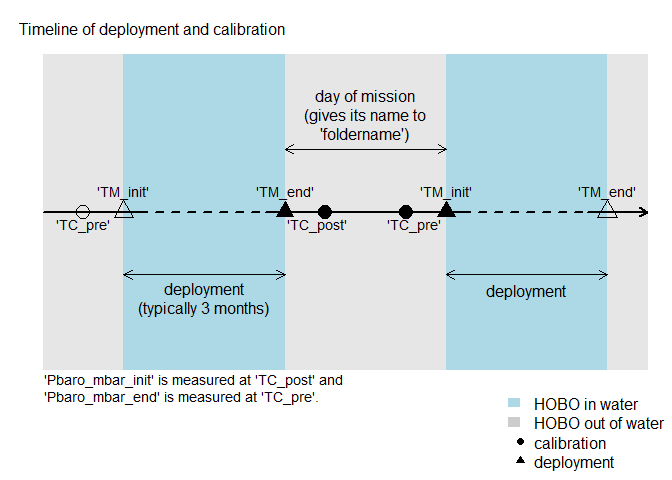
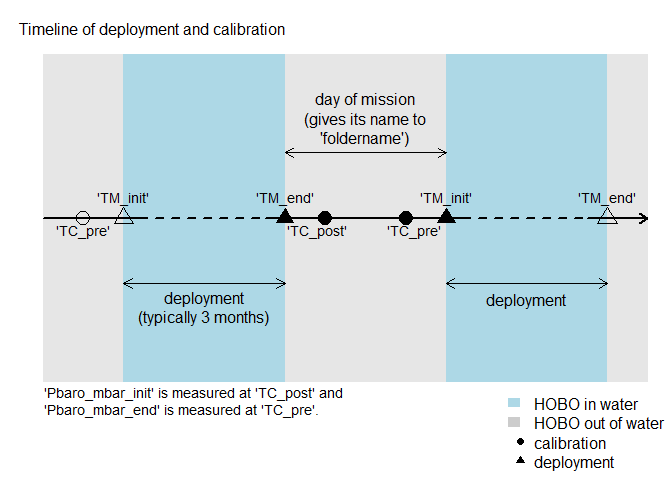
edit text above timeline

diff --git a/README.md b/README.md
@@ -62,16 +62,27 @@ sensors deployment:
 # Start editing here
 foldername = "2021_07_27" # Name of the folder with data unloaded. Typically, folder named YYYY_MM_DD using the date of the field mission.
 Append = format(as.Date(foldername, format = "%Y_%m_%d"), format = "%Y%m") # To respect the format, create the append that will be added to each QAQC'd file
-TC_pre = "2021/05/07 13:10:00" # Time calibration pre-deployment, after the calibration bucket # before measurements
-TM_init = "2021/05/07 13:40:00" # Time measurement init # when probes are back in the lakes
 TM_end = "2021/07/27 07:50:00" # Time measurement end # when probes are taken out of the lakes
 TC_post = "2021/07/27 09:15:00" # Time calibration end of measurements (post deployment)
+TC_pre = "2021/05/07 13:10:00" # Time calibration pre-deployment, after the calibration bucket # before measurements
+TM_init = "2021/05/07 13:40:00" # Time measurement init # when probes are back in the lakes
 Pbaro_mbar_init = 756.2 *1013/760 # P in millibar
 Pbaro_mbar_end = 752.6 *1013/760 # P in millibar
 # Stop editing here
 ```
 
-The timeline showing the succession of event is shown below.
+The timeline below shows the succession of events: every 3 months or so,
+the HOBO sensors are taken out of the water (TM\_end: time end
+measurement), put in an oxygenated bucket for one hour (TC\_post: time
+at the end of the hour, with theoretical measurements at max DO
+saturation), cleaned, put back in the bucket for at least one hour
+(TC\_pre: time at the end of the second “bath”), then re-deployed to the
+lakes (TC\_init). This routine takes about half-a-day, and is indicated
+in grey in the drawing below. On top of the 4 times that must be written
+down (in UTC), the atmospheric pressure is also written down at the
+moment of the two “baths”. Atmospheric pressure and water temperature
+(measured by the HOBO sensors) are needed to calculate the theoretical
+DO saturation.
 
 <img src="man/figures/README-plot with all the important measurements-1.png" width="100%" />
 
